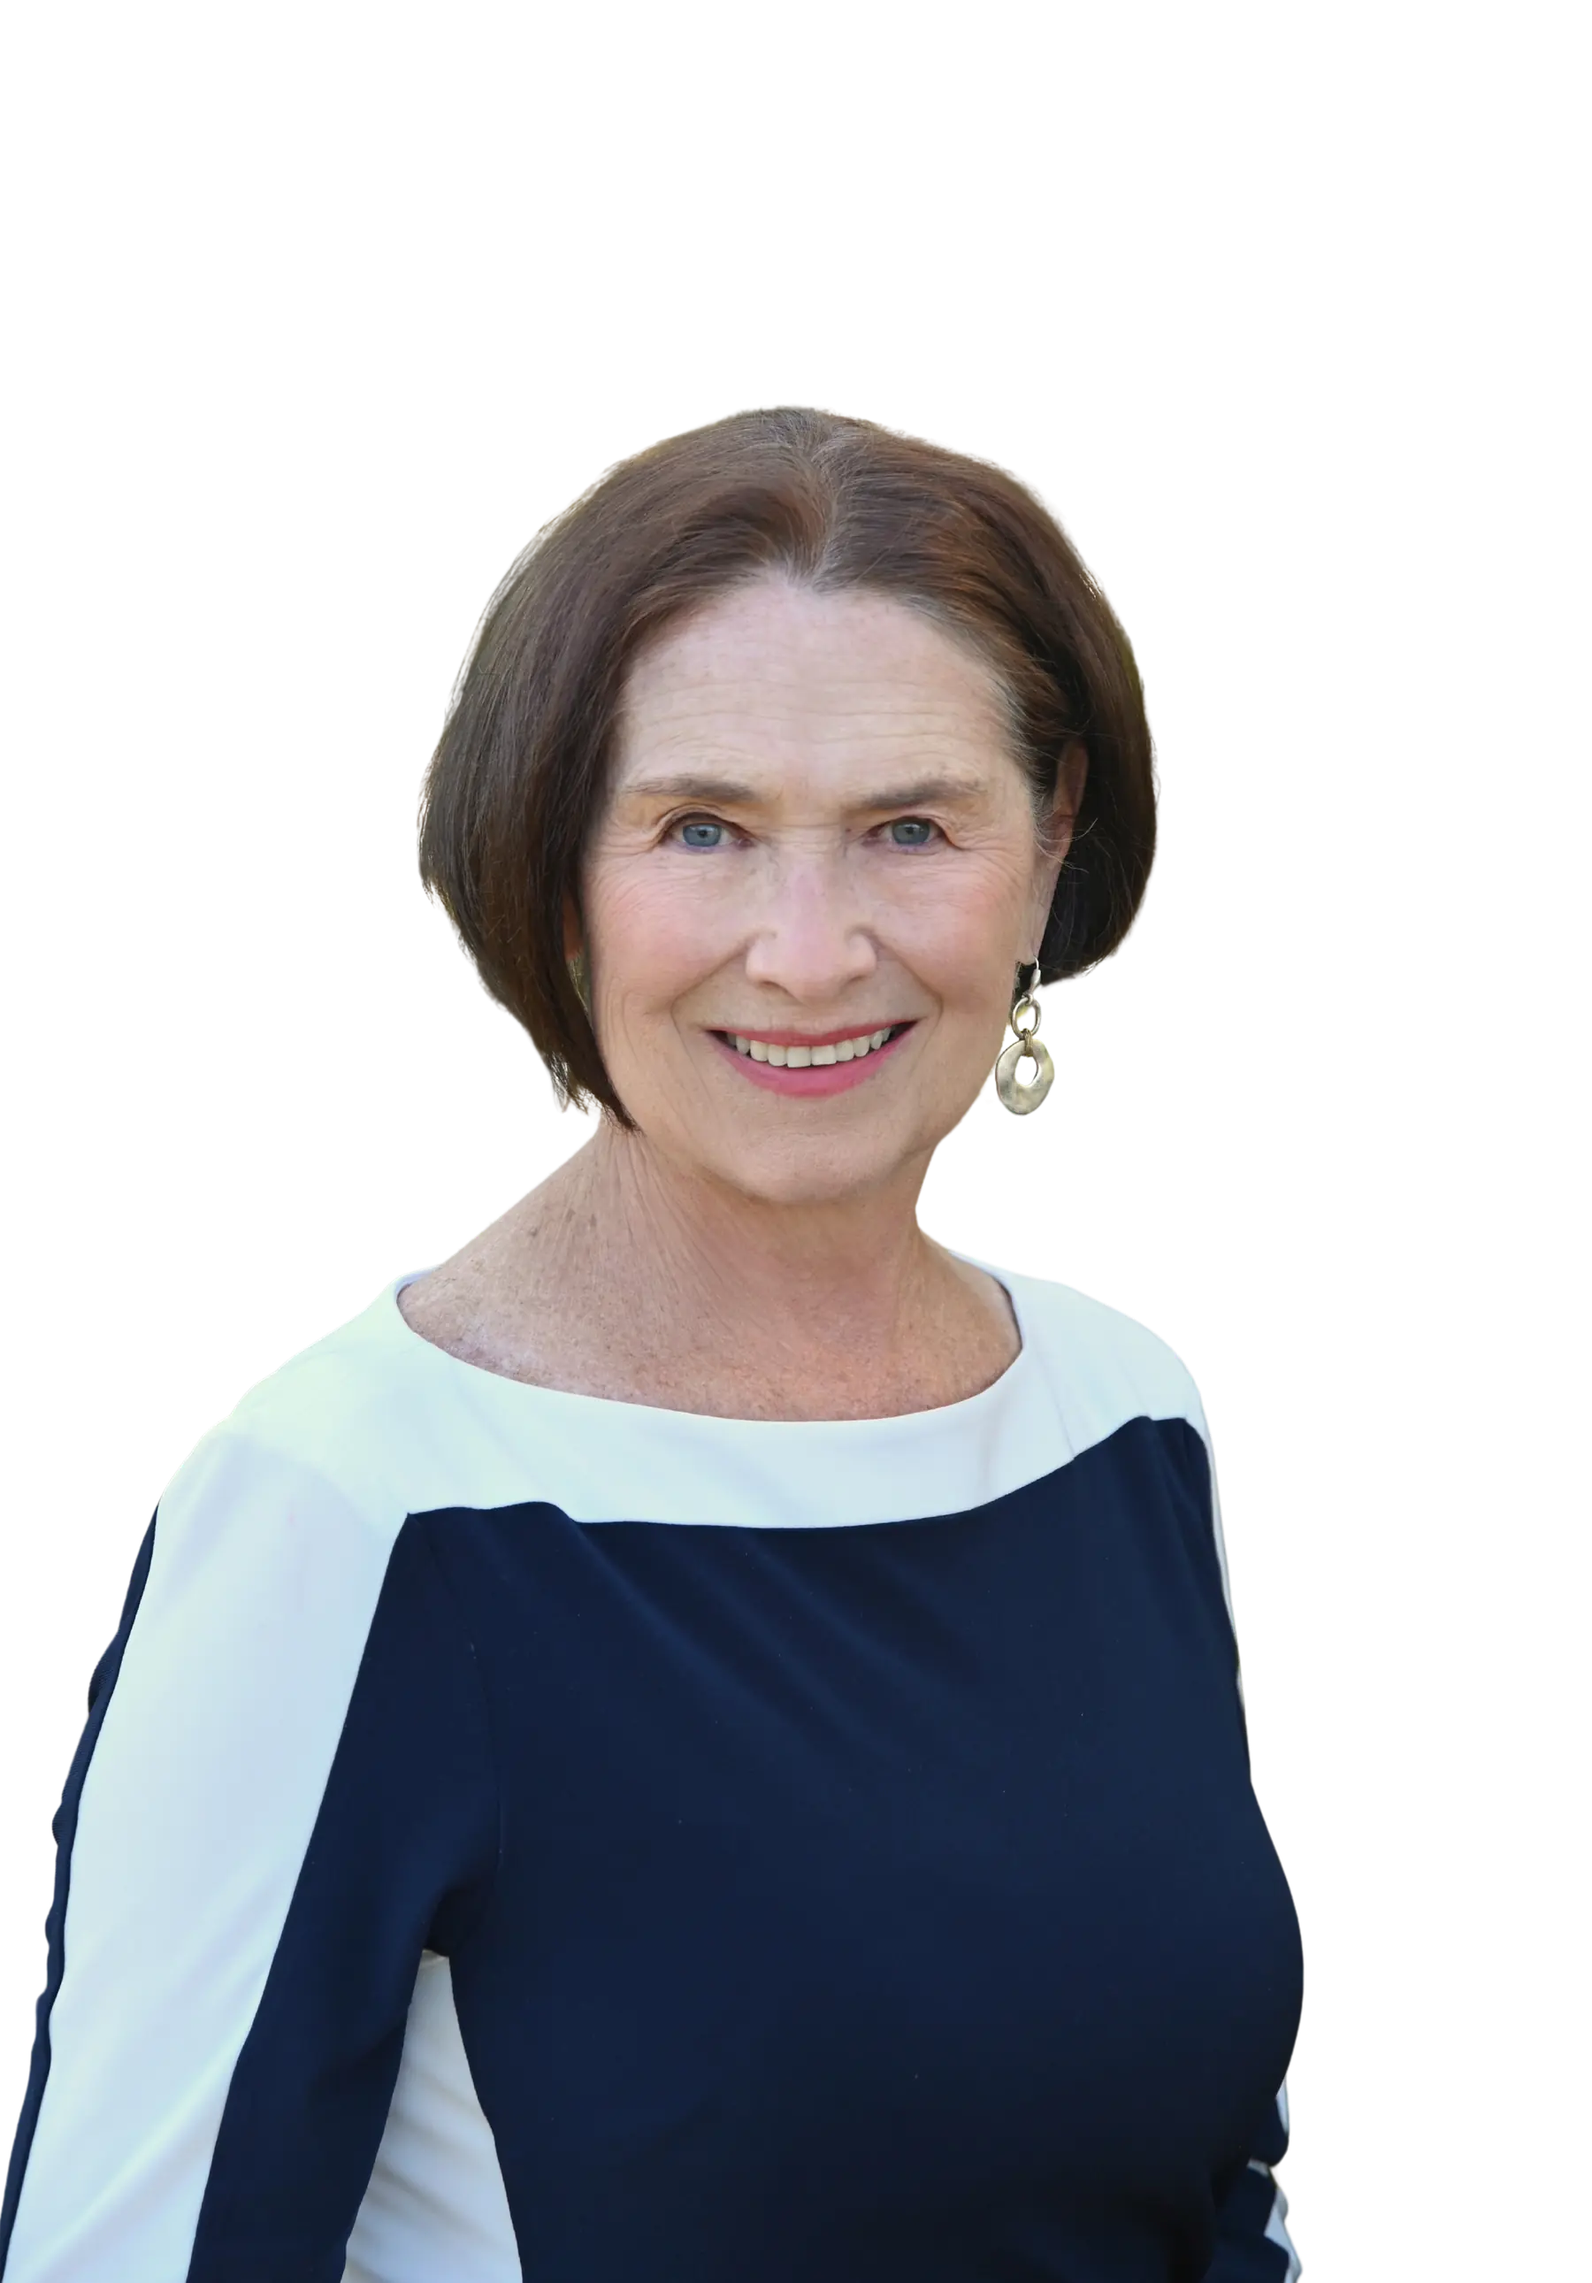
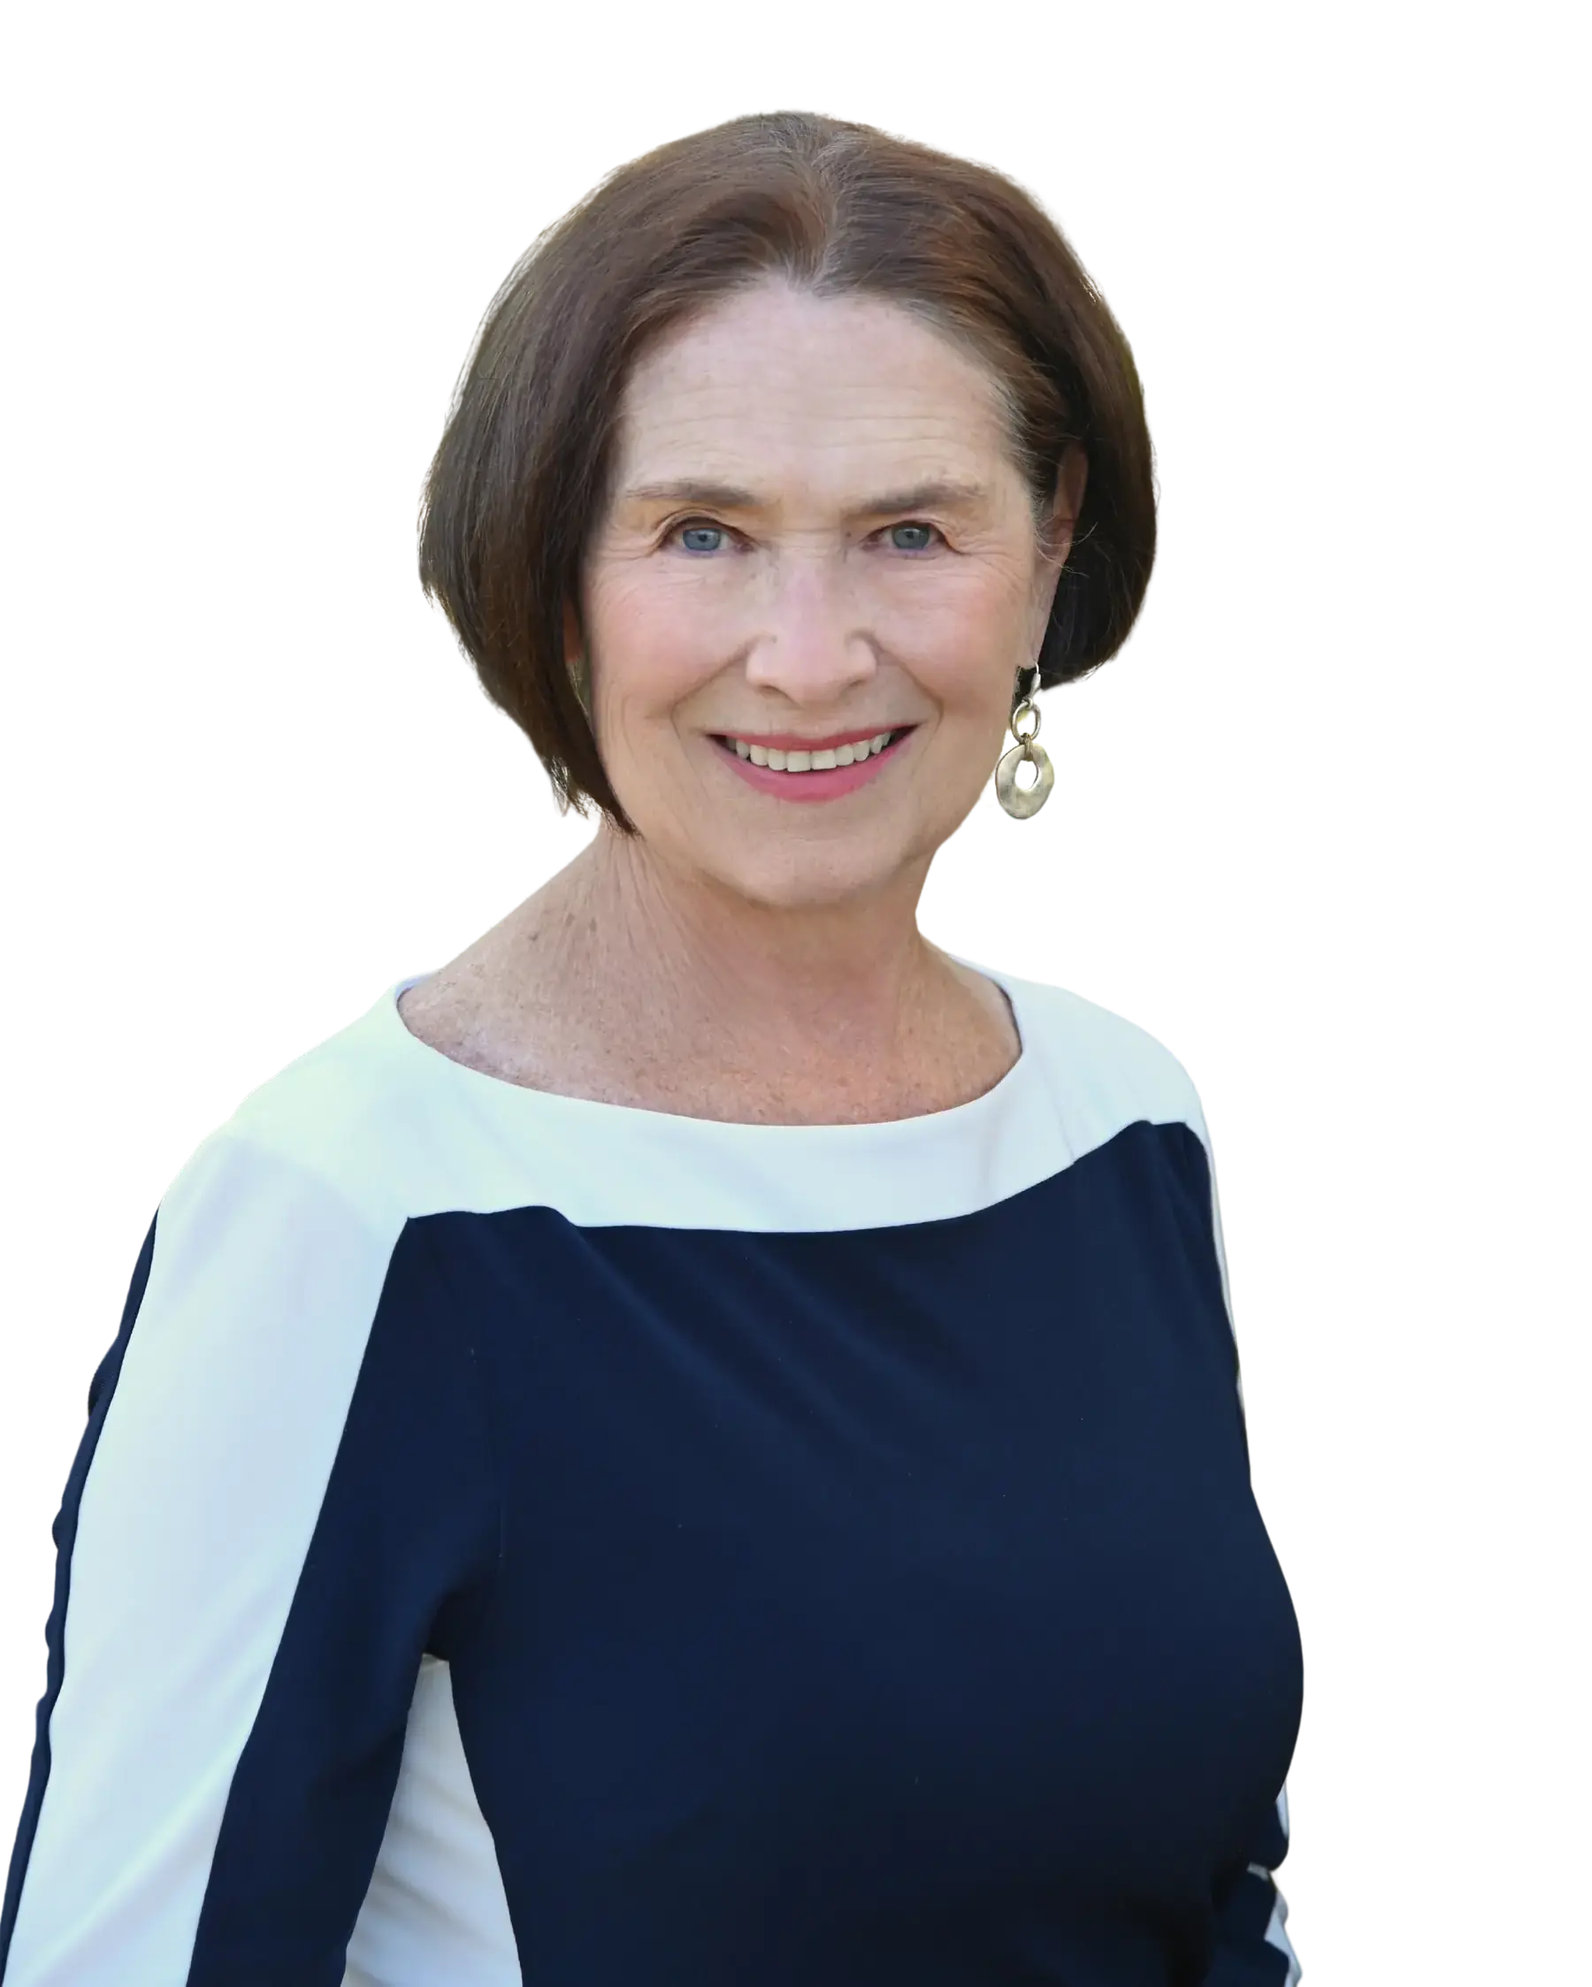
fix hero on mobile

diff --git a/css/index.css b/css/index.css
@@ -35,7 +35,7 @@
   object-fit: contain;
   object-position: bottom;
   display: block;
-  transform: scale(1.35);
+  transform: scale(1.15);
   transform-origin: center 70%;
   filter: drop-shadow(12px 0 40px rgba(26, 92, 90, 0.15));
 }
@@ -526,9 +526,6 @@
 
 /* ══ RESPONSIVE — TABLET (≤1024px) ══ */
 @media (max-width: 1024px) {
-  .hero-photo {
-    max-height: 520px;
-  }
   .issues-grid {
     grid-template-columns: 1fr 1fr;
   }
@@ -557,6 +554,7 @@
     height: auto;
     width: 100%;
     max-width: 100%;
+    max-height: 520px;
     object-fit: contain;
     transform: none;
     object-position: center bottom;
@@ -605,9 +603,6 @@
 
 /* ══ RESPONSIVE — SMALL MOBILE (≤480px) ══ */
 @media (max-width: 480px) {
-  .hero-photo-col {
-    height: auto;
-  }
   .hero-content {
     padding: 36px var(--pad-x) 52px;
   }

diff --git a/get-involved.html b/get-involved.html
@@ -64,8 +64,8 @@
     />
     <link rel="icon" type="image/svg+xml" href="assets/favicon.svg" />
     <!-- Cache busting: bump ?v= when deploying visible changes -->
-    <link rel="stylesheet" href="css/shared.css?v=1.7" />
-    <link rel="stylesheet" href="css/get-involved.css?v=1.7" />
+    <link rel="stylesheet" href="css/shared.css?v=1.8" />
+    <link rel="stylesheet" href="css/get-involved.css?v=1.8" />
   </head>
   <body>
     <div id="site-header"></div>
@@ -425,7 +425,7 @@
 
     <div id="site-footer"></div>
 
-    <script defer src="js/site.js?v=1.7"></script>
+    <script defer src="js/site.js?v=1.8"></script>
     <script>
       (function () {
         var form = document.getElementById("volunteer-form");

diff --git a/thank-you.html b/thank-you.html
@@ -61,8 +61,8 @@
     />
     <link rel="icon" type="image/svg+xml" href="assets/favicon.svg" />
     <!-- Cache busting: bump ?v= when deploying visible changes -->
-    <link rel="stylesheet" href="css/shared.css?v=1.7" />
-    <link rel="stylesheet" href="css/thank-you.css?v=1.7" />
+    <link rel="stylesheet" href="css/shared.css?v=1.8" />
+    <link rel="stylesheet" href="css/thank-you.css?v=1.8" />
   </head>
   <body>
     <div id="site-header"></div>
@@ -103,6 +103,6 @@
 
     <div id="site-footer"></div>
 
-    <script defer src="js/site.js?v=1.7"></script>
+    <script defer src="js/site.js?v=1.8"></script>
   </body>
 </html>

diff --git a/about.html b/about.html
@@ -61,8 +61,8 @@
     />
     <link rel="icon" type="image/svg+xml" href="assets/favicon.svg" />
     <!-- Cache busting: bump ?v= when deploying visible changes -->
-    <link rel="stylesheet" href="css/shared.css?v=1.7" />
-    <link rel="stylesheet" href="css/about.css?v=1.7" />
+    <link rel="stylesheet" href="css/shared.css?v=1.8" />
+    <link rel="stylesheet" href="css/about.css?v=1.8" />
   </head>
   <body>
     <div id="site-header"></div>
@@ -519,6 +519,6 @@
 
     <div id="site-footer"></div>
 
-    <script defer src="js/site.js?v=1.7"></script>
+    <script defer src="js/site.js?v=1.8"></script>
   </body>
 </html>

diff --git a/index.html b/index.html
@@ -61,8 +61,8 @@
     />
     <link rel="icon" type="image/svg+xml" href="assets/favicon.svg" />
     <!-- Cache busting: bump ?v= when deploying visible changes -->
-    <link rel="stylesheet" href="css/shared.css?v=1.7" />
-    <link rel="stylesheet" href="css/index.css?v=1.7" />
+    <link rel="stylesheet" href="css/shared.css?v=1.8" />
+    <link rel="stylesheet" href="css/index.css?v=1.8" />
   </head>
   <body>
     <div id="site-header"></div>
@@ -469,6 +469,6 @@
 
     <div id="site-footer"></div>
 
-    <script defer src="js/site.js?v=1.7"></script>
+    <script defer src="js/site.js?v=1.8"></script>
   </body>
 </html>

diff --git a/404.html b/404.html
@@ -30,7 +30,7 @@
     />
     <link rel="icon" type="image/svg+xml" href="assets/favicon.svg" />
     <!-- Cache busting: bump ?v= when deploying visible changes -->
-    <link rel="stylesheet" href="css/shared.css?v=1.7" />
+    <link rel="stylesheet" href="css/shared.css?v=1.8" />
     <style>
       body {
         min-height: 100vh;
@@ -205,6 +205,6 @@
 
     <div id="site-footer"></div>
 
-    <script defer src="js/site.js?v=1.7"></script>
+    <script defer src="js/site.js?v=1.8"></script>
   </body>
 </html>
